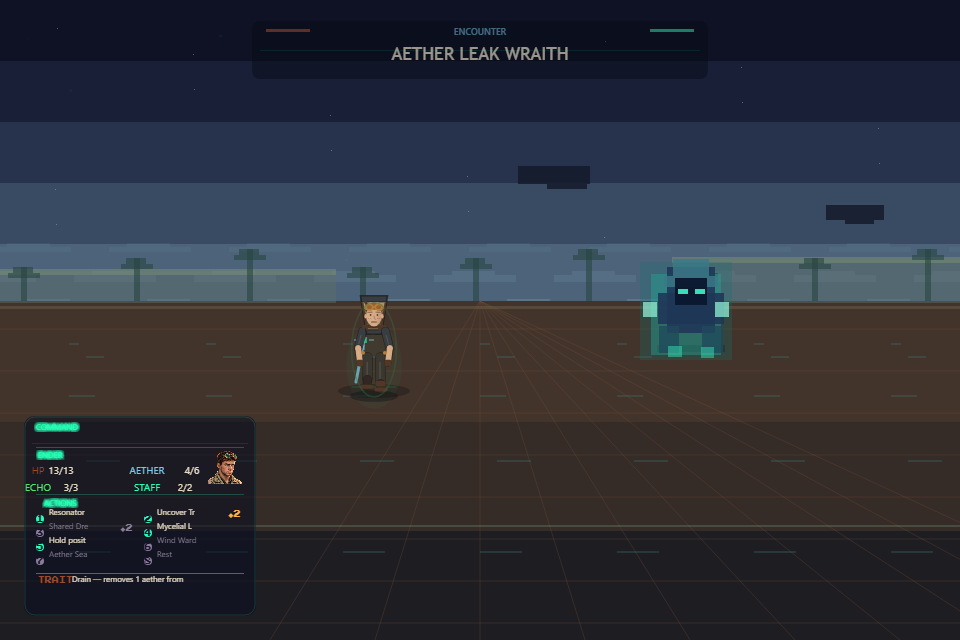
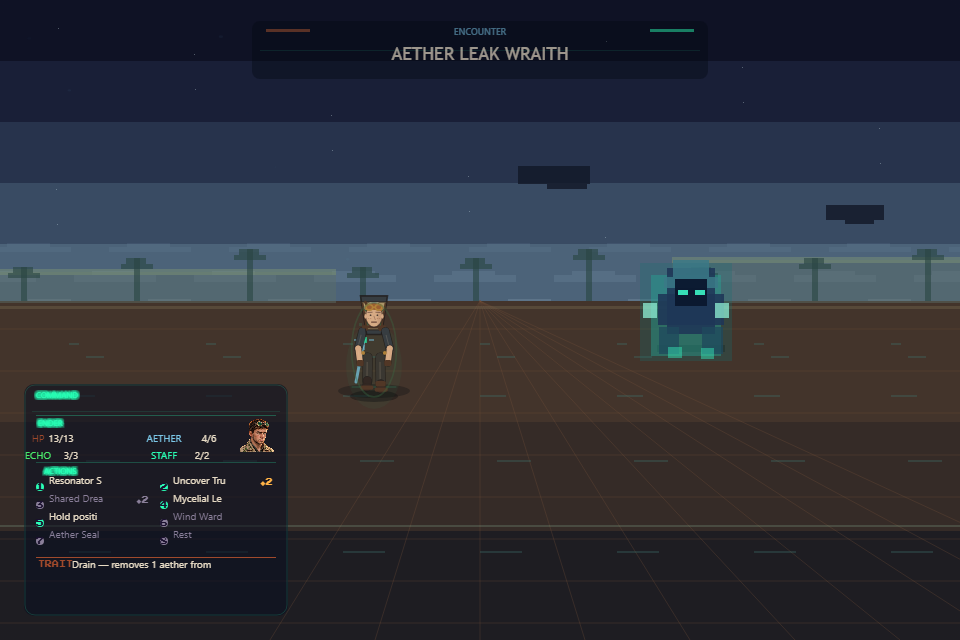
feat(combat-ui): enlarge readable turn-based command panel

Changed region(s): [[0.0, 0.5938, 0.3125, 0.9062]]

diff --git a/aetherwake.js b/aetherwake.js
@@ -9094,7 +9094,7 @@ function drawCombatPanel(combatState, layoutBox) {
 
   // Header
   textFont(FONT_UI);
-  textSize(8);
+  textSize(10);
   drawGlowText('COMMAND', px + 12, py + 8, PAL.TEAL, 8);
 
   // Enemy identity/HP live in the centered encounter rail, leaving this window
@@ -9141,14 +9141,14 @@ function drawCombatPanel(combatState, layoutBox) {
   const aX = px + 8;
   const aY = sY + 48;
   const aW = pw - 16;
-  const aH = 76;
+  const aH = 92;
   // Actions remain grouped by spacing and typography rather than another opaque card.
   noStroke();
   fill(42, 255, 181, 58);
   rect(aX + 4, aY, aW - 8, 1);
 
   textFont(FONT_UI);
-  textSize(8);
+  textSize(10);
   drawGlowText('ACTIONS', aX + 12, aY + 6, PAL.TEAL, 8);
 
   const actions = combatState.actions || [];
@@ -9156,7 +9156,7 @@ function drawCombatPanel(combatState, layoutBox) {
     combatState.eligibleActionIds || actions.map(action => action.id)
   );
   // Two-column 4-row command grid keeps all eight actions visible without a tall sidebar.
-  const actH = 14;
+  const actH = 18;
   const actStartY = aY + 19;
   const actionColW = Math.floor(aW / 2);
   actions.forEach((action, idx) => {
@@ -9174,17 +9174,17 @@ function drawCombatPanel(combatState, layoutBox) {
     ellipse(ax + 8, ay + 6, 8, 8);
     fill(PAL.NAVY);
     textFont(FONT_UI);
-    textSize(7);
+    textSize(8);
     textAlign(CENTER, CENTER);
     text(String(idx + 1), ax + 8, ay + 6);
     textFont(FONT_BODY);
-    textSize(8);
+    textSize(10);
     textAlign(LEFT, CENTER);
     const label = action.label || action.id;
     const compactLabel = label.split(/\s+[^A-Za-z0-9]+\s+/)[0].trim();
     fill(usable ? PAL.PARCHMENT : PAL.DIM);
     noStroke();
-    text(compactLabel.substring(0, 10), ax + 17, ay);
+    text(compactLabel.substring(0, 11), ax + 17, ay);
     const totalCost = window.AetherAbilityDefs.getActionResourceCost(action);
     if (unlocked && totalCost > 0) {
       textFont(FONT_UI);
@@ -9205,7 +9205,7 @@ function drawCombatPanel(combatState, layoutBox) {
     textAlign(LEFT, TOP);
     text('TRAIT', px + 14, abY + 4);
     textFont(FONT_BODY);
-    textSize(8);
+    textSize(10);
     fill(PAL.PARCHMENT);
     const abText = String(combatState.enemy.abilityDesc || '');
     text(abText.substring(0, 30), px + 48, abY + 3);

diff --git a/tests/ui-visual-system.test.js b/tests/ui-visual-system.test.js
@@ -18,8 +18,9 @@ assert(api.TOKENS.maxPrimaryPanels <= 2);
 const noLog = api.layoutCombat(960, 640, false);
 assert.strictEqual(noLog.logPanel, null, 'empty combat log must not reserve a primary panel');
 assert(noLog.statusPanel.x >= api.TOKENS.safeMarginPx, 'combat status panel violates safe margin');
-assert(noLog.statusPanel.w <= 240, 'combat command window must remain compact enough to preserve arena art');
-assert(noLog.statusPanel.h <= 200, 'combat command window must remain a compact lower-left JRPG window');
+assert(noLog.statusPanel.w <= 264, 'combat command window must remain compact enough to preserve arena art');
+assert(noLog.statusPanel.h <= 232, 'combat command window must remain a compact lower-left JRPG window');
+assert(noLog.statusPanel.w >= 256 && noLog.statusPanel.h >= 224, 'combat command text needs additional legibility room');
 assert(noLog.statusPanel.y >= 360, 'combat command window must anchor low rather than occupy the full left edge');
 const dialogue = api.layoutDialogue(960, 640);
 assert.strictEqual(dialogue.x, 70, 'dialogue panel must remain centered inside 24px safe area');
@@ -49,7 +50,7 @@ assert(title.artReserve.w >= 400, 'title layout must preserve a substantial hero
 const withLog = api.layoutCombat(960, 640, true);
 assert(withLog.logPanel && withLog.logPanel.w <= 184 && withLog.logPanel.h <= 184,
   'combat log must remain compact');
-assert(withLog.centerReserve.w >= 480, 'combat UI must preserve a large central encounter reserve');
+assert(withLog.centerReserve.w >= 440, 'combat UI must preserve a large central encounter reserve');
 const html = fs.readFileSync(path.join(root, 'index-embedded.html'), 'utf8');
 assert(html.includes('modules/ui-visual-system.js'), 'UI visual system missing from runtime');
 assert(html.indexOf('modules/ui-visual-system.js') < html.indexOf('aetherwake.js'),

diff --git a/modules/ui-visual-system.js b/modules/ui-visual-system.js
@@ -27,8 +27,8 @@
   function layoutCombat(w, h, hasLog) {
     const safe = TOKENS.safeMarginPx;
     // Combat uses a compact lower-left JRPG command window rather than a full-height sidebar.
-    const leftWidth = snap(Math.min(240, Math.max(224, w * 0.24)));
-    const leftHeight = snap(Math.min(h - safe * 2, 200));
+    const leftWidth = snap(Math.min(264, Math.max(232, w * 0.275)));
+    const leftHeight = snap(Math.min(h - safe * 2, 232));
     const logWidth = snap(Math.min(184, Math.max(160, w * 0.175)));
     const logHeight = snap(Math.min(184, Math.max(136, h * 0.22)));
     return Object.freeze({
